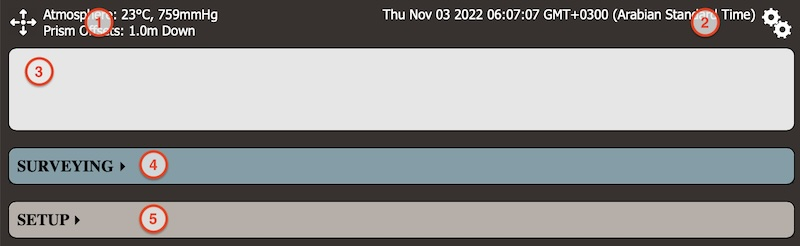
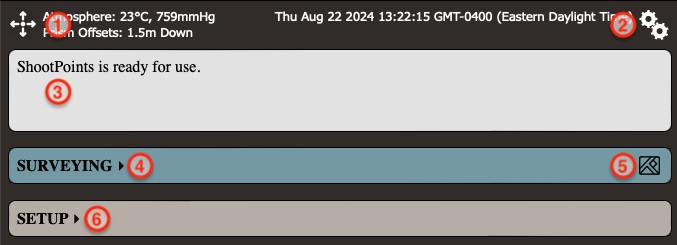
Update README to describe Live Map interface

diff --git a/README.md b/README.md
@@ -101,14 +101,15 @@ Each grouping also is assigned a class and subclass to assist in categorization 
   * **Trench**: Excavation units.
 
 ## ShootPoints-Web Interface
-ShootPoints-Web’s interface has five primary components:
+ShootPoints-Web’s interface has six primary components:
 
 ![ShootPoints-Web interface overview](img/Overview.jpg)
 1. **On-The-Fly Adjustments**: Click the arrows icon in the upper left to set atmospheric corrections and prism offsets, which may vary from one shot to the next.
 2. **Utilities**: Click the gears icon in the upper right to download data, delete a surveying session, or reset the database. Also, if ShootPoints-Web is running on a Raspberry Pi, you will have options to safely shut it down or reboot it.
 3. **Output Box**: The results of your commands will be displayed here.
 4. **“Surveying” Panel**: Expand this area to collect data with the total station.
-5. **“Setup” Panel**: Expand this area to input values that should be set prior to beginning surveying such as total station configs, your site’s survey stations, and classes/subclasses.
+5. **Live Map Icon**: Click the map icon to view a map of your current surveying session.
+6. **“Setup” Panel**: Expand this area to input values that should be set prior to beginning surveying such as total station configs, your site’s survey stations, and classes/subclasses.
 
 ## Save a new site:
 1. Expand the “Setup” panel.
@@ -170,6 +171,13 @@ Continue taking shots, each of which will be saved to the current grouping. To b
 
 Note that any grouping shot with an “Isolated Point” geometry can logically only have one shot saved to it, so if you’re taking a series of these (such as is typical of end-of-day point elevations in a trench), you will need to create a new grouping for each shot. Though this sounds cumbersome, in practice it is a quick process and ensures that your data are marked consistently.
 
+## View progress:
+1. Clicking the map icon reveals a map showing the current surveying session.
+2. The latest unsaved shot is shown in red.
+3. Use familiar pinch and drag gestures to zoom and pan the map.
+4. Click on any point, line, or polygon to see its subclass and label.
+5. Click the “X” in the upper right of the map to return to the data collection interface.  
+![Live Map](img/LiveMap.jpg)
 
 ## Download data:
 1. Click the gears icon in the upper right to open the Utilities panel.
